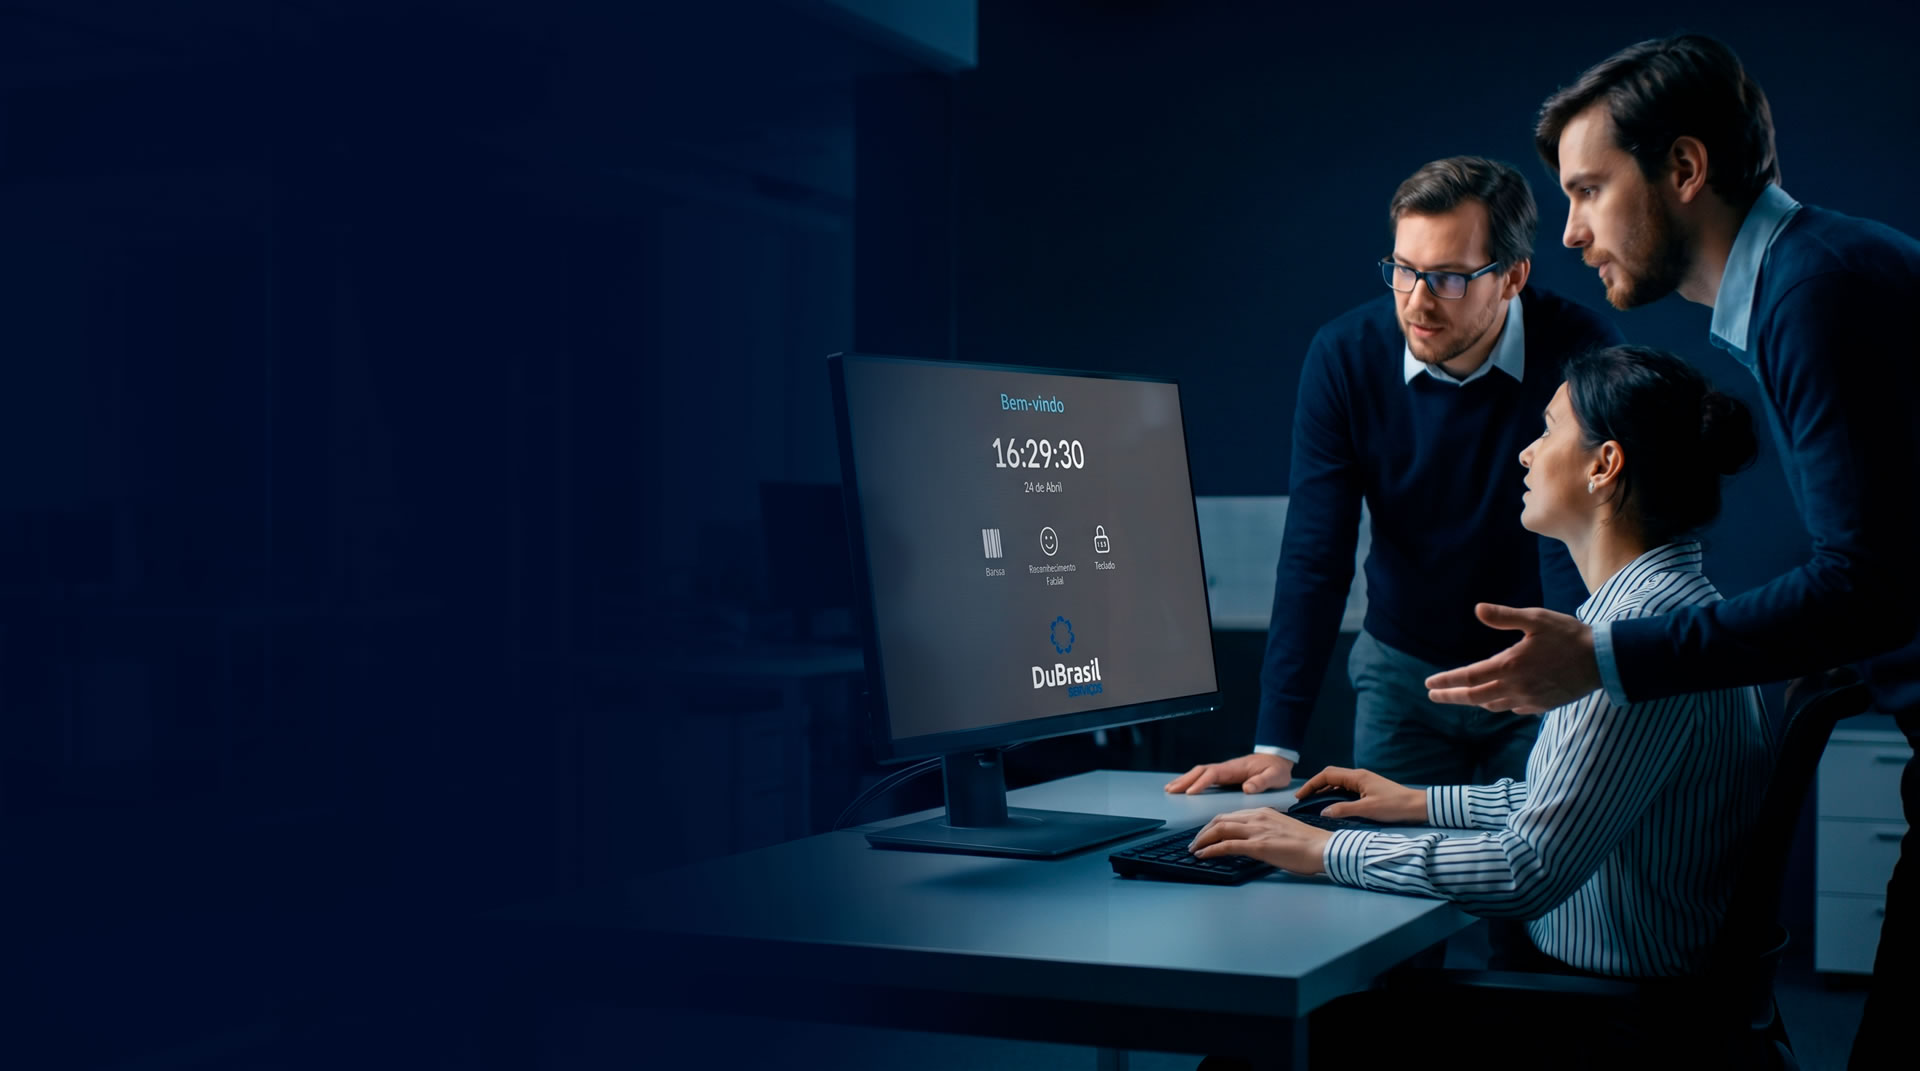
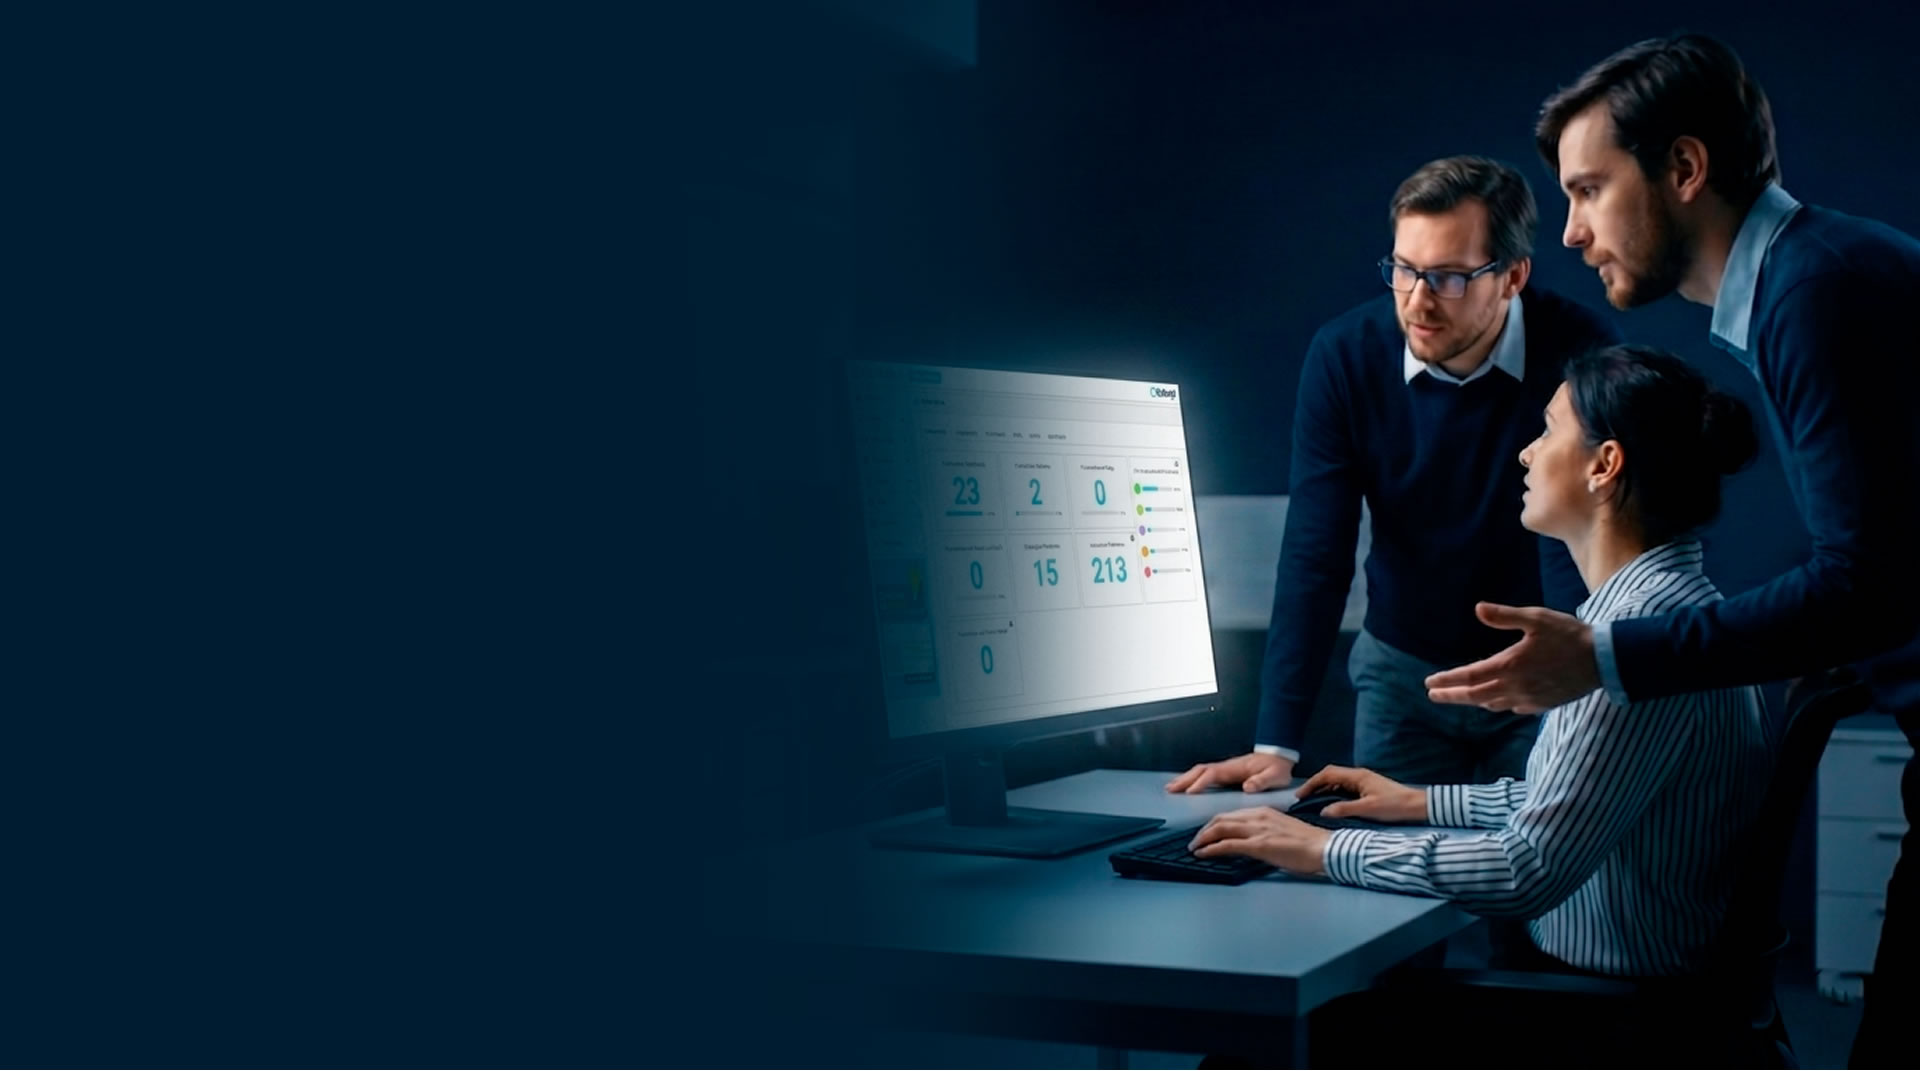
Bg de identificação corporativa

diff --git a/src/components/jornadas/SolutionsSection.tsx b/src/components/jornadas/SolutionsSection.tsx
@@ -2,7 +2,7 @@ import SolutionCard from "./SolutionCard";
 import solucaoPonto from "@/assets/controle de ponto.jpeg";
 import solucaoAgro from "@/assets/agro.jpeg";
 import solucaoAcesso from "@/assets/controle de acesso3.jpeg";
-import solucaoIdentificacao from "@/assets/identificacao corporativa.jpeg";
+import solucaoIdentificacao from "@/assets/identificacao corporativa.png";
 
 const solutions = [
   {
